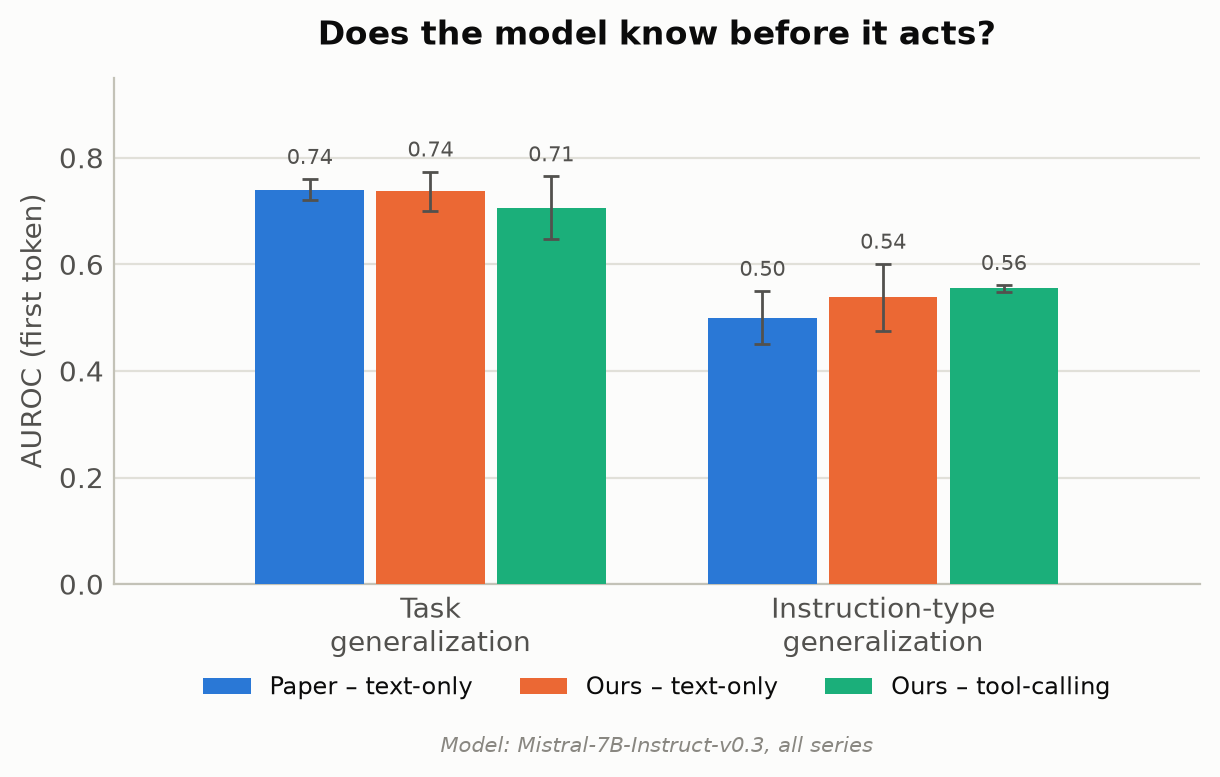
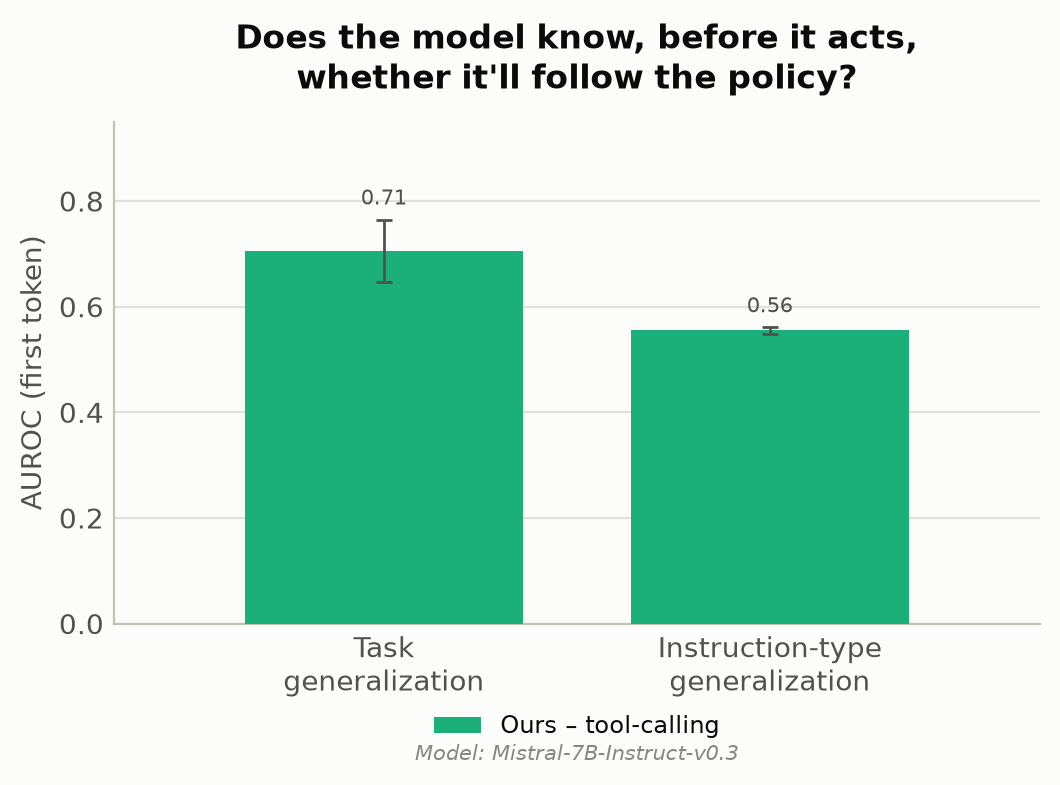
Rename findings doc for the policy-following angle, refresh charts
TOOL_CALL_RESULTS.md -> POLICY_FOLLOWING_RESULTS.md: the paper's own
title (Do LLMs Know When to Say No?) is about the accept/reject policy
decision, not tool-calling mechanics, so the filename should say that
too. Also swaps in updated SR/SCR/SPR and per-type masking charts to
match the doc's latest figures.

diff --git a/POLICY_FOLLOWING_RESULTS.md b/POLICY_FOLLOWING_RESULTS.md
@@ -16,11 +16,18 @@ instruction following, but its actual experiments never leave free-text
 generation: write a resume, avoid these keywords, end with this phrase.
 I gave the model real tools to work with. Tools are just the mechanism
 for following the instruction, an agent either has the right tool
-for a request or it doesn't, and getting that judgment wrong (guessing
+for a request or it doesn't, and getting that judgment wrong (hallucinating a tool or guessing
 instead of declining) is arguably more dangerous than writing a mediocre
 paragraph. I wanted to see if the same "internal knowing" the paper
 found extends to that decision of knowing when to refuse to follow
 instructions.
+
+To be precise about what's being tested: this isn't a benchmark of
+tool-calling proficiency, whether the model can format a valid function
+call. It's a test of judgment. Given a set of tools, does the model
+know whether any of them actually apply, and does it follow a simple
+policy accordingly: call a tool if (and only if) one genuinely fulfills
+the request, decline otherwise.
 
 I initially reproduced the paper's own text-only instruction following
 results, then extended both of its core experiments, linear probing and
@@ -32,17 +39,19 @@ real tool-calling support, on an RTX 4090 (24GB VRAM), and stuck with
 their model rather than a newer one like Qwen to keep the comparison
 direct. 
 
-I'm not planning to go into detail on the initial text-only recreation of the paper and instead focus on the LLMs accept/reject decision, and
-tool calling as the mechanism for testing it.
+I'm not planning to go into detail on the initial text-only recreation
+of the paper and instead focus on whether the model follows that
+policy, and tool calling as the mechanism for testing it.
 
 ### Contributions
 
-- **The paper asks whether the model knows if it'll comply. I extended
-  that to the version that matters greatly for agents: does it know when
-  it *can't* comply, and refuse instead of guessing?** Built a paired
-  dataset to test exactly that: an *in-scope* variant where the right
-  tool exists (should comply) and an *out-of-scope* variant where it
-  doesn't (should reject).
+- **The paper asks whether the model knows if it'll follow a single
+  instruction correctly. I extended that to tool-calling: given a
+  request and a set of tools, does the model know which action is
+  correct, calling one of them or declining, and does it act on that
+  instead of guessing?** Built a paired dataset to test exactly that:
+  an *in-scope* variant where the right tool exists (should call it)
+  and an *out-of-scope* variant where it doesn't (should reject).
 - **Built a binary LLM judge to score that outcome.** The paper's 0-9
   quality scale has no rubric, a known failure mode for LLM judges, and
   it broke down right at the cutoff (7) the whole metric depends on.
@@ -52,54 +61,76 @@ tool calling as the mechanism for testing it.
 
 ### Key Findings
 
-#### Does the model know before it acts?
-A probe on the model's own activations, tested on tool-calling requests
-it never saw during training, predicts whether it'll pick the right tool
-or correctly decline. Task generalization is well above the 0.50 chance
-level across the board. Instruction-type generalization stays close to
-chance, consistent with the paper's own result:
+#### Does the model know, before it acts, whether it'll follow the policy?
+Every prompt in this dataset comes with a handful of tools available to
+the model, one of which is always `reject`. The policy is simple: call
+the tool that actually fulfills the request, if one exists; call
+`reject` if none does. Sometimes one of the other tools genuinely does
+what the user asked (e.g., `reserve_hotel_room` for a hotel-booking
+request), and the correct move is to call it. Sometimes none of them
+do, only unrelated tools plus `reject` are available, and the correct
+move is to call `reject` instead.
 
-| | Task generalization | Instruction-type generalization |
-|---|---|---|
-| Text-only (paper) | 0.74 ± 0.02 | 0.50 ± 0.05 |
-| Text-only (ours) | 0.737 ± 0.037 | 0.538 ± 0.063 |
-| Tool-calling (ours) | 0.706 ± 0.059 | 0.555 ± 0.006 |
+The paper asks a related but narrower question: does the model know,
+before it acts, whether it will comply with a single instruction? They
+test this with a linear probe on the model's activations at the first
+token, before generation begins. I use the identical probing
+methodology here, applied to the question above instead, whether the
+model knows which action the policy calls for, tested two different
+ways:
 
-![AUROC comparison: task generalization is well above chance for the paper and both of our runs. Instruction-type generalization stays close to chance across all three.](assets/fig1_auroc_headline.png)
+- **Task generalization**: trained on some tasks (e.g., booking a hotel
+  room), predicts success on a different, unseen task (e.g., reserving a
+  restaurant table).
+- **Instruction-type generalization**: trained on requests where the
+  policy calls for a tool call, predicts success on requests where the
+  policy calls for rejection instead, a type it's never seen a single
+  example of (and the reverse).
 
-Text-only (ours) lands close to the paper's published numbers.  Tool-calling (ours) is that identical pipeline, run on the tool-calling
-dataset instead.
+Task generalization AUROC is 0.706, clearly above the 0.50 chance level.
+Instruction-type generalization is 0.555, only barely above chance.
+That's the harder test, since the probe has never seen a single example
+of the condition it's being asked to predict:
 
-#### Can that knowledge be steered?
-In the paper, nudging the model's representation along what it calls the
-"instruction-following direction" raised the success rate, the fraction
-of responses that both pass the deterministic checker and clear a
-quality bar, over the unmodified baseline. The paper also tests a
-same-magnitude push in a random direction, to check the effect is coming
-from that specific direction and not just from perturbing the activation
-at all. In tool-calling, Instruction-follow comes in below both Original
-and Random: not just unhelpful, worse than doing nothing.
+![AUROC for our tool-calling accept/reject probe: task generalization is well above the 0.50 chance level, instruction-type generalization is only barely above it.](assets/fig1_auroc_headline.png)
+
+The model does know, at least partially, whether it's about to follow
+the policy correctly before it ever tries a tool call. This is the same
+test the paper runs on free-text instructions. I reproduced that
+text-only version faithfully too, landing close to the paper's own
+numbers. See Linear Probes below for the full side-by-side.
+
+#### Can the model be steered to follow the policy?
+Probing finds a direction in the model's activations that predicts
+success, a correlation. Representation engineering tests whether nudging
+the model along that same direction can cause success instead, not just
+predict it, the same push the paper uses, applied here to the
+accept/reject decision. A same-magnitude push in a random direction is
+the control, to check any effect comes from that specific direction and
+not just from perturbing the activation at all:
 
 | | Original | Random | Instruction-follow |
 |---|---|---|---|
-| Text-only (paper) | 0.58 ± 0.00 | 0.56 ± 0.02 | 0.64 ± 0.02 |
-| Text-only (ours) | 0.525 ± 0.00 | 0.533 ± 0.004 | 0.570 ± 0.00 |
-| Tool-calling (ours) | 0.338 ± 0.00 | 0.340 ± 0.003 | 0.325 ± 0.00 |
+| Success rate (SR) | 0.338 ± 0.00 | 0.340 ± 0.003 | 0.325 ± 0.00 |
+| Success conversion ratio (SCR) | n/a | 0.004 | 0.000 |
+| Success preservation ratio (SPR) | n/a | 1.000 | 0.970 |
 
-![Success rate across Original, Random, and Instruction-follow conditions, for the paper, our text-only recreation, and our tool-calling extension. Paper and text-only both climb left to right; tool-calling is flat-to-declining and ends up lowest at Instruction-follow.](assets/fig1b_re_headline_sr.png)
+![Success rate, success conversion ratio, and success preservation ratio for our tool-calling accept/reject task. SR: Instruction-follow ends up the lowest of the three. SCR: Instruction-follow converts zero originally-failing rows to success, versus 0.004 for a random push. SPR: Instruction-follow also preserves slightly fewer already-correct rows than random.](assets/fig1b_re_headline_sr_scr.png)
 
-Original and Instruction-follow are truly deterministic on my side, greedy
-decoding against a fixed direction, so ± 0.00 is exact, not just one
-run. The paper's own Instruction-follow std comes from retraining their probe
-per seed; my direction is a closed-form mean-difference vector instead
-(why, in Representation Engineering below), so there's no seed variance
-left to average there.
+Instruction-follow comes in lowest of the three on SR, below both the
+unmodified baseline and a random push, but SCR is the sharper number:
+Instruction-follow converts zero originally-failing rows to success,
+literally none, while even a random push converts a few. Original and
+Instruction-follow are deterministic here, greedy decoding against a
+fixed direction, so ± 0.00 is exact, not an artifact of a small sample;
+Random's own small std comes from averaging several actual random
+directions.
 
-The model still "knows" in tool-calling. If anything it knows more
-strongly than in the paper's original setting. But steering that
-knowledge doesn't transfer. The instruction-following direction drops below both
-original and random, where in the text-only setting it clearly beat
-both. Both results, and why, are covered below.
+The model knows whether it'll follow the policy. It just can't be
+nudged into acting on that knowledge, at least not by this lever, and
+in the paper's own text-only setting the same push clearly helps
+instead. Full numbers for both settings, and why, are in Representation
+Engineering below.
 
 ## Extending the Dataset
 
@@ -115,12 +146,12 @@ content. Here's how the two line up:
 | Scoring | deterministic checker | deterministic checker |
 
 In practice: both rows in a pair ask for the exact same thing, word for
-word. What changes is only the tools on offer. If one of them can
+word. What changes is only the tools available. If one of them can
 fulfill the request, the model should call it. If none can, it should
 reject. Here's what that looks like for one real task,
 `hotel_booking_000`, straight from `data/tool_calling.jsonl`:
 
-**Should follow the instruction** (`tool:in_scope` in the dataset). A
+**Should call the tool** (`tool:in_scope` in the dataset). A
 tool exists (`reserve_hotel_room`), so the correct move is to call it:
 
 ```json
@@ -224,12 +255,12 @@ flowchart TD
 ### LLM Judge Roles
 
 Each judge has its own job, scored against explicit pass/fail criteria
-instead of a vibe: the comply judge checks the model's confirmation, the
-decline judge checks its refusal. Neither judges tool usage, the checker
-already handled that. Both only ever see the model's own written
-explanation, never the tool call itself.
+instead of a vibe: the in-scope judge checks the model's confirmation,
+the out-of-scope judge checks its refusal. Neither judges tool usage,
+the checker already handled that. Both only ever see the model's own
+written explanation, never the tool call itself.
 
-#### Should Comply
+#### Should Call the Tool
 
 Used whenever the correct tool exists and the model is
 expected to call it:
@@ -270,10 +301,11 @@ Score (respond with ONLY the single integer 0 or 1):
 A linear probe is a small classifier trained directly on the model's own
 internal activations to predict whether a response will comply with an
 instruction, before the model has even finished generating it, the
-paper's own definition of "knowing internally." In the case of our experiment, complying means
-picking the right tool or correctly declining. Same probe architecture
-as the paper, logistic regression: one linear layer, sigmoid output.
-Same 3 layers × 3 token positions, 5 seeds per cell.
+paper's own definition of "knowing internally." In our experiment,
+that's whether the model follows the tool-use policy: picking the right
+tool when one exists, or correctly declining when none does. Same probe
+architecture as the paper, logistic regression: one linear layer,
+sigmoid output. Same 3 layers × 3 token positions, 5 seeds per cell.
 
 The paper runs two distinct generalization tests. I ran the tool-calling
 equivalent of both.
@@ -281,7 +313,7 @@ equivalent of both.
 ### Task generalization
 
 Trained on some requests (e.g., the hotel-booking request above), does
-the probe predict compliance on a different, unseen task (e.g., a
+the probe predict success on a different, unseen task (e.g., a
 restaurant reservation), within the same instruction condition? Both
 instruction types are pooled into one training set and split 80/20 by
 the underlying task, identical to how the paper pools all 5 of its
@@ -333,7 +365,7 @@ the grid. That's the opposite of what I expected going in: with roughly a
 third as many positive examples, I assumed `out_of_scope` would be the
 harder type to learn, not the easier one. It means the pooled numbers
 above, while the correct comparison to the paper's own pooled setup,
-overstate how separable `tool:in_scope` specifically is — most of the
+overstate how separable `tool:in_scope` specifically is. Most of the
 pooled signal is `out_of_scope` carrying the average up.
 
 ## Representation Engineering
@@ -397,7 +429,7 @@ breaking already-correct rows past 0.5, so 0.3 sits safely in the flat
 zone before that damage begins.
 
 Success rate and quality ratio together, so the trade-off the paper
-checks for (does compliance go up without quality going down) is
+checks for (does success go up without quality going down) is
 checkable in one place.
 
 <table>
@@ -427,8 +459,6 @@ checkable in one place.
 </tr>
 </table>
 
-![Success rate and quality ratio across Original, Random, and Instruction-follow conditions, compared across the paper, our text-only run, and our tool-calling run. The paper and our text-only run both show instruction-follow beating original and random; tool-calling shows the opposite ordering, with instruction-follow the lowest of the three.](assets/fig3_re_sr_qr.png)
-
 **RE does not transfer to tool-calling.** Instruction-follow's success
 rate is the *lowest* of the three, the paper's own gate (must beat both
 original and random) fails outright. Not one originally-failing row got
@@ -449,31 +479,62 @@ a success, while progressively breaking already-correct rows at higher
 alpha (97% of originally-passing rows stayed passing, versus 100% for
 random).
 
-![Success conversion ratio and success preservation ratio for our text-only run versus our tool-calling run. Text-only converts about 1 in 5 failures under instruction-follow; tool-calling converts zero, and also preserves slightly fewer of its already-correct rows than its own random-direction control.](assets/fig4_re_scr_spr.png)
+The paper answers "did steering work" with its own three-panel SR / SCR
+/ SPR figure, one panel per metric, grouped by model. Here's the same
+three panels, laid out the same way, for our two experiments instead of
+their four models, so it's easy to hold next to theirs and compare
+directly:
+
+![Success rate, success conversion ratio, and success preservation ratio, side by side, matching the paper's own three-panel RE figure (SCR/SPR panels show only our two runs, since the paper reports those two metrics only as a chart, not a table, so there's no exact number of theirs to plot). SR: the paper's and our text-only instruction-follow bars both end up the tallest of their three conditions; our tool-calling instruction-follow bar ends up the shortest. SCR: our text-only instruction-follow bar clearly beats its random control (0.211 vs. 0.039), the same shape as the paper's own claim; our tool-calling instruction-follow bar does not (0.000 vs. 0.004). SPR: both of our runs dip slightly below their own random control under instruction-follow, unlike the paper's own chart, where instruction-follow's SPR bar is consistently at or above random's, for every model.](assets/fig3_re_sr_scr_spr.png)
+
+The pooled tool-calling numbers above combine both directions of the
+policy: call the tool, and reject. Linear Probes already showed pooling
+can hide a real split between the two (`tool:out_of_scope` was far more
+separable than `tool:in_scope`), so the same check is worth running
+here: does RE's null result hold up when the two directions are looked
+at separately, or is a real per-type effect getting averaged away?
+
+![Success rate by condition, pooled versus split by tool:in_scope and tool:out_of_scope. All three bars for tool:in_scope sit close together around 0.44 to 0.46, and all three for tool:out_of_scope sit close together around 0.21, with instruction-follow never the highest in either group.](assets/fig6_re_type_masking.png)
+
+It holds up. `tool:in_scope` goes 0.463 to 0.463 to 0.438 across
+Original, Random, and Instruction-follow; `tool:out_of_scope` goes 0.213
+to 0.217 to 0.212. Instruction-follow isn't the best condition for
+either direction of the policy individually, so the pooled null result
+isn't hiding a win on the call-the-tool side or the reject side. Whatever
+this lever is doing, it isn't doing it selectively.
 
 ## Conclusion
 
-- **Does the model know when it can't comply?** Yes, clearly. The probe
-  separates accept-from-reject decisions well above chance on requests it
-  never trained on (task generalization up to 0.84 AUROC), and the signal
-  even carries, more weakly, to an instruction type it's never seen a
-  single example of. Before it ever emits a tool call, the model's own
-  activations already distinguish "a tool for this exists" from "none of
-  these tools apply."
-- **Can that knowledge be steered?** No. Nudging the representation
-  toward "success" doesn't raise the tool-calling success rate, it's
-  actively harmful, it never converts a genuine failure into a success,
-  while quietly breaking responses that were already correct. The signal
-  is there, this particular lever doesn't reach it.
-- Together, that's a real dissociation, not a wash. The same internal
-  signal a probe reads off cleanly can't be pushed on directly to change
-  behavior. Practically, that argues for using this as a passive
-  guardrail, a pre-generation check on whether an agent is about to
-  reach for the wrong tool, rather than a live correction mechanism. One
-  thing worth trying next, training the steering direction on the reject
-  cases alone instead of pooling both instruction types together, since
-  accept and reject may need genuinely different pushes, not one shared
-  one.
+The model knows whether it'll follow the policy, in the sense the paper
+itself uses that word. A probe trained on its activations, before it
+ever emits a tool call, separates the requests it'll handle correctly
+from the ones it won't well above chance (task generalization up to
+0.84 AUROC). That signal even carries, more weakly, to a type of
+request it's never seen a single example of. Before it decides between
+calling a tool and calling reject, the model's own internal state
+already distinguishes which one the situation calls for.
+
+That knowledge can't be steered into more reliable policy adherence, at
+least not with the same lever the paper uses, nudging the
+representation along what it calls the instruction-following
+direction. In the paper's own text-only setting, that push clearly
+helps. It doesn't transfer here, it never raises the tool-calling
+success rate. It's actively harmful, it never converts a genuine
+failure into a success, while quietly breaking responses that were
+already correct. That holds for both directions of the policy checked
+separately, not just pooled. Calling the tool and rejecting both fail
+to improve under the same push, so it isn't a case of one direction
+quietly working while the other drags the average down.
+
+Together, that's a real dissociation between knowing and being
+steerable. The model knows which action its policy calls for, but that
+knowledge isn't something this push can act on. Practically, that
+argues for using this as a passive guardrail, a pre-generation check on
+whether an agent is about to call a tool it shouldn't, rather than a
+live correction mechanism. One thing worth trying next is training the
+steering direction on the reject cases alone instead of pooling both
+instruction types together, since calling the tool and rejecting may
+need genuinely different pushes, not one shared one.
 
 ## Citation
 
